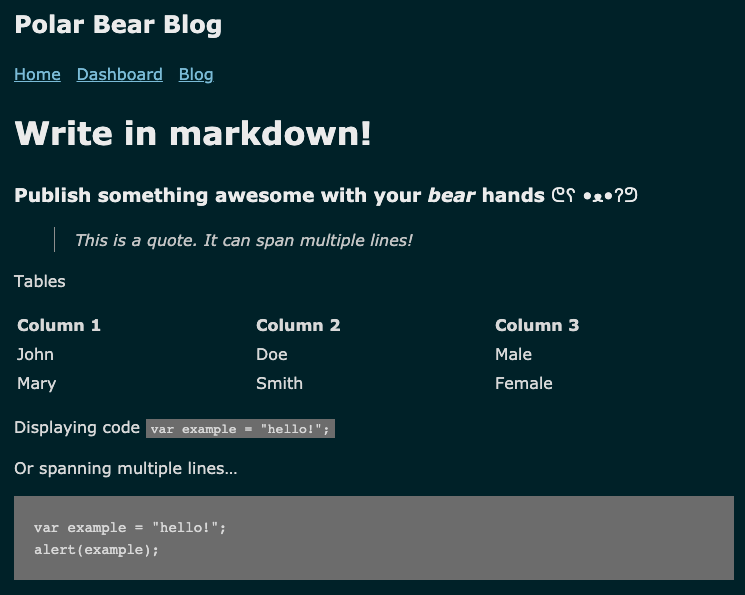
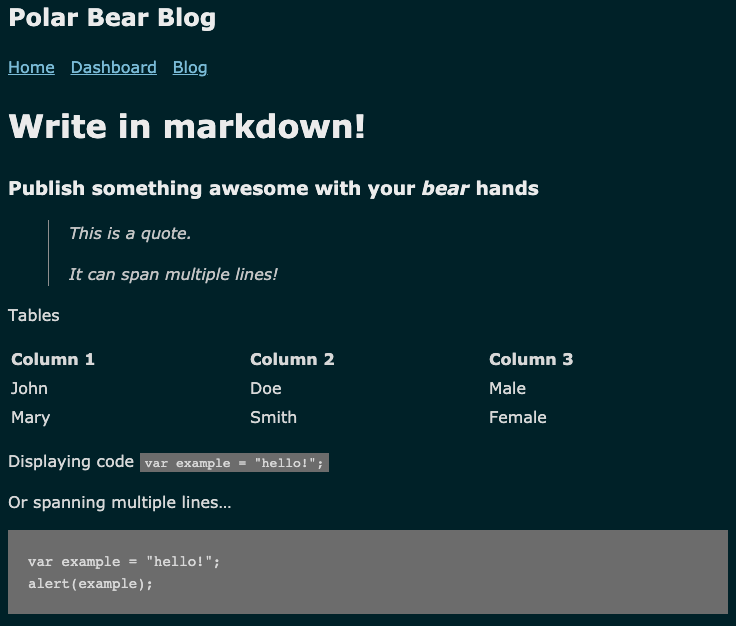
Add StackEdit integration, change markdown URL since multi-line quotes work differently

diff --git a/app/route/styles.go b/app/route/styles.go
@@ -21,6 +21,7 @@ func (c *Styles) edit(w http.ResponseWriter, r *http.Request) (status int, err e
 	vars["favicon"] = c.Storage.Site.Favicon
 	vars["styles"] = c.Storage.Site.Styles
 	vars["stylesappend"] = c.Storage.Site.StylesAppend
+	vars["stackedit"] = c.Storage.Site.StackEdit
 
 	return c.Render.Template(w, r, "dashboard", "styles_edit", vars)
 }
@@ -37,6 +38,7 @@ func (c *Styles) update(w http.ResponseWriter, r *http.Request) (status int, err
 	c.Storage.Site.Favicon = r.FormValue("favicon")
 	c.Storage.Site.Styles = r.FormValue("styles")
 	c.Storage.Site.StylesAppend = (r.FormValue("stylesappend") == "on")
+	c.Storage.Site.StackEdit = (r.FormValue("stackedit") == "on")
 
 	err = c.Storage.Save()
 	if err != nil {

diff --git a/app/model/site.go b/app/model/site.go
@@ -24,6 +24,7 @@ type Site struct {
 	Content           string          `json:"content"` // Home content.
 	Styles            string          `json:"styles"`
 	StylesAppend      bool            `json:"stylesappend"`
+	StackEdit         bool            `json:"stackedit"`
 	Posts             map[string]Post `json:"posts"`
 }
 

diff --git a/app/lib/htmltemplate/funcmap.go b/app/lib/htmltemplate/funcmap.go
@@ -79,6 +79,9 @@ func (te *Engine) funcMap(r *http.Request) template.FuncMap {
 		}
 		return false
 	}
+	fm["EnableStackEdit"] = func() bool {
+		return te.storage.Site.StackEdit
+	}
 
 	return fm
 }

diff --git a/README.md b/README.md
@@ -135,10 +135,14 @@ When `PBB_LOCAL` is set, the following things will happen:
 
 ![Styles](doc/images/site-styles.png)
 
-### Edit a Post
+### Create a Post
 
-![Edit a Post](doc/images/post-edit.png)
+![Create a Post](doc/images/post-create.png)
 
 ### View a Post
 
 ![View a Post](doc/images/post.png)
+
+### StackEdit
+
+![StackEdit](doc/images/stackedit.png)
